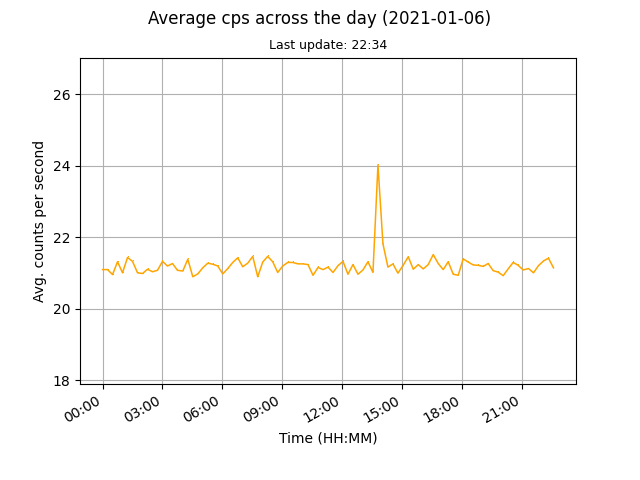
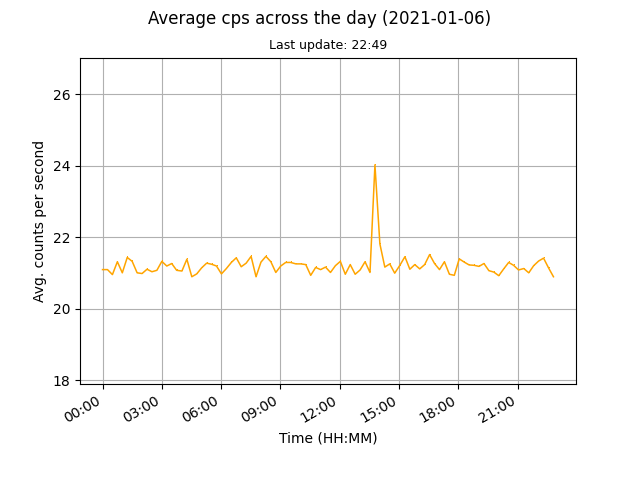
auto data update

diff --git a/docs/index.html b/docs/index.html
@@ -45,8 +45,8 @@
 	
 	<br>
 	
-	<p>Current counts per second (cps): 21.15</p>
-	<p>Last update: 2021-01-06, 22:34</p>
+	<p>Current counts per second (cps): 20.9</p>
+	<p>Last update: 2021-01-06, 22:49</p>
 
 	<p><a href="images/monthly.png"><img src="images/monthly.png" alt="Mothly avg cps data"></a><a href="images/daily.png"><img src="images/daily.png" alt="Daily avg cps data"></a></p>
 	
